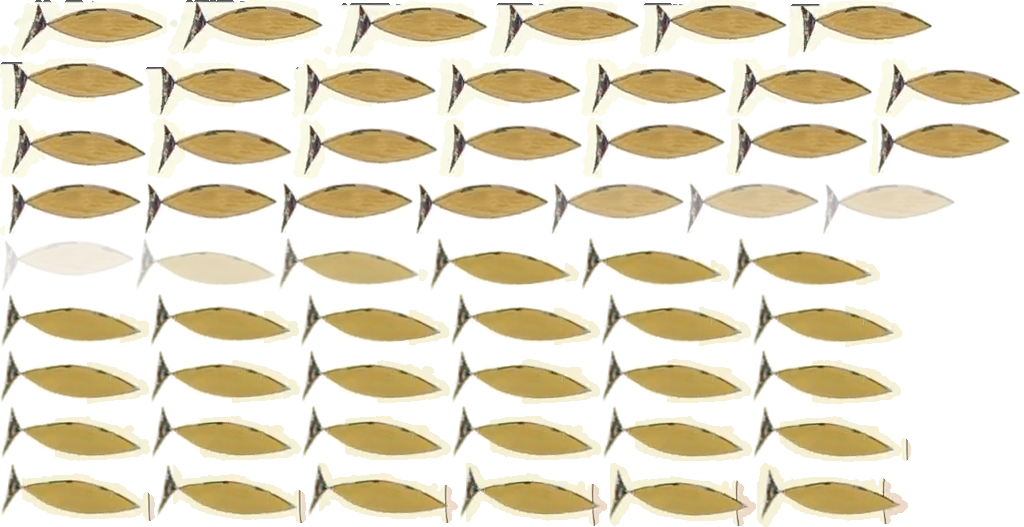
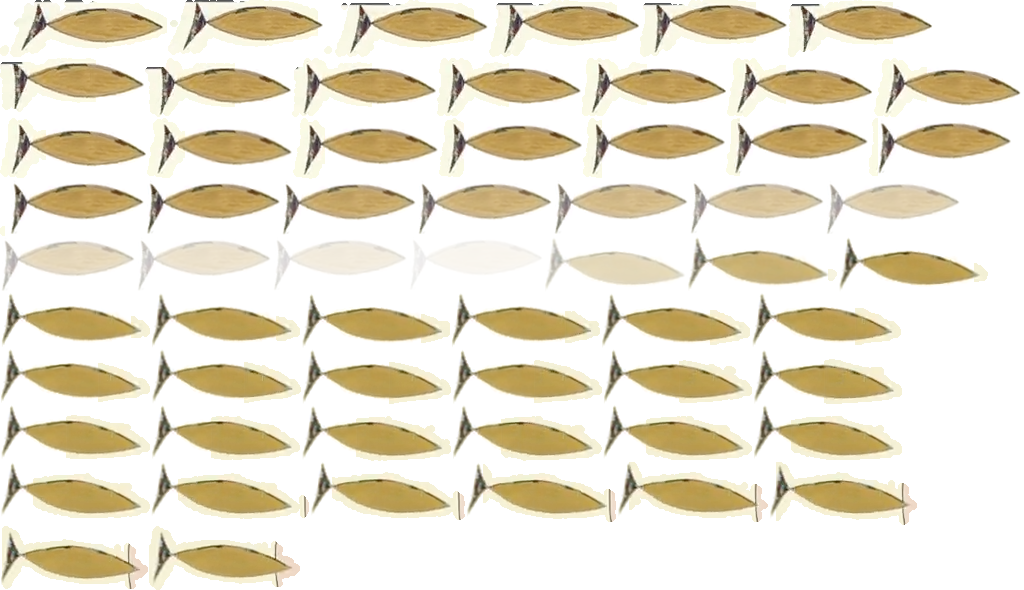
Заставка: 7 замечаний — тон ролика на iPhone, профиль низа на телефоне, море по горизонту, картина до краёв экрана, рыба без торможения, перетекание без вспышек
- iOS показывает ролик темнее CSS-цветов (y = x − 0,17·x·(1 − x), замер по скринам с iPhone): на iOS так же затемняются фон, фактура и лист рыбы
- телефон: под роликом фон продолжает низ кадра (site/hero-edges.json, ключевые кадры по 16 отрезкам ширины)
- «Только вперёд!» / «Держись» на телефоне: ролик увеличен, края картины на краях экрана (HERO_ZM)
- море: фон полосами по картине, граница синего по горизонту, текст ниже горизонта светлый; маска низа ролика убрана
- слои фона: новая сцена проявляется поверх старой за 0,6 с, без провала и вспышки на склейке 56,3
- рыба: за краем картины не тормозит, гаснет за 10 кадров
- телефон: под подпись сцены всегда место на две строки — текст не прыгает

diff --git a/index.html b/index.html
@@ -44,11 +44,12 @@ a:hover{color:var(--mars)}
 @property --hf{syntax:"<color>";inherits:true;initial-value:#F7F1E8}
 @property --hbc{syntax:"<color>";inherits:true;initial-value:#F7F1E8}
 .hero.sync{background:linear-gradient(var(--hf) 0,var(--hf) var(--hy,100%),var(--hbc) var(--hy,100%),var(--hbc) 100%);transition:--hf .9s ease,--hbc .9s ease}
-.hero h1,.hero .hs,.hero .hl a,.ha-cap,.ha-cap .cg{transition:color .9s ease,border-color .9s ease}
+.hero h1,.hero .hs,.hero .hl a,.ha-cap,.ha-cap .cg{transition:color .6s ease,border-color .6s ease}
 .hero-fx{position:absolute;inset:0;width:100%;height:100%;z-index:2;pointer-events:none}
-/* фактура холста вокруг ролика в сценах на акриловом фоне (heroSync, HERO_TX) */
-.hero-tx{position:absolute;inset:0;opacity:0;transition:opacity .9s ease;pointer-events:none;background-repeat:repeat}
-.hero-tx.on{opacity:1}
+/* фон вокруг ролика (heroSync): набор слоёв на сцену — основа, левый и правый край, низ; новая сцена проявляется поверх старой */
+.hero-bg{position:absolute;inset:0;opacity:0;pointer-events:none;transition:opacity .6s cubic-bezier(.3,.6,.4,1)}
+.hero-bg.on{opacity:1}
+.hero-bg>div{position:absolute;inset:0;background-repeat:no-repeat}
 .hero .hi{position:relative;z-index:1}
 .hi{max-width:var(--mw);margin:0 auto;width:100%;display:grid;grid-template-columns:1fr 1.25fr;gap:48px;align-items:center}
 .ht h1{font-family:var(--fd);font-weight:300;font-size:clamp(2.6rem,5vw,4rem);line-height:1.12;margin-bottom:20px}
@@ -74,7 +75,7 @@ a:hover{color:var(--mars)}
 
 .wd{width:100%;line-height:0;overflow:hidden}
 .wd.wh{background:var(--hbc,var(--canvas));transition:--hbc .9s ease;position:relative}
-.wd.wh svg{position:relative}
+.wd.wh svg{position:relative;z-index:2}
 .wd svg{width:100%;height:auto;display:block}
 
 /* SECTIONS */
@@ -297,6 +298,8 @@ a:hover{color:var(--mars)}
   /* Заставка на телефоне: квадрат от края до края сразу под шапкой, кадр обрезается по бокам — картина упирается в границы экрана */
   .hero{align-items:flex-start;padding-top:60px}
   .ha-vid{aspect-ratio:1/1}
+  /* подпись под роликом бывает в одну и в две строки — место под две держим всегда, иначе текст ниже прыгает на склейках */
+  .ha-cap{min-height:calc(3.4em + 10px);align-content:flex-start}
   .sec{padding:56px 16px}
   .cg,.cg-col{gap:14px}
   .cb2{padding:12px}
@@ -705,20 +708,25 @@ function shareWork(id){
 function openFromHash(){const m=location.hash.match(/^#work-(\d+)$/);if(m&&W.length)oM(+m[1]);}
 addEventListener('hashchange',openFromHash);
 
-/* Заставка: фон первого экрана берёт цвет краёв текущего кадра, под роликом — подпись сцены со ссылкой на работу */
-// Сцены ролика по точным склейкам: [начало, id работы для подписи, цвет фона вокруг, цвет под роликом, 1 — низ ролика уходит в воду,
-// фактура холста вокруг (HERO_TX)].
+/* Заставка: фон первого экрана продолжает края текущего кадра, под роликом — подпись сцены со ссылкой на работу */
+// Сцены ролика по точным склейкам: [начало, id работы для подписи, цвет фона вокруг, цвет под роликом, —, фактура холста вокруг (HERO_TX)].
 // Цвета сняты заранее с показанных кадров (края картины), поэтому фон переключается ровно на склейке
 // и не ловит мусор с наездов и переходов. Сменится ролик — пересчитать.
 const HERO_SC=[[0,25,'#f5f5e1','#f4f4e1'],[4.8,25,'#f5f5e9','#f5f5e9'],[7.37,65,'#f5f5e9','#f5f5e9'],[16.833,77,'#16a063','#16a063',0,'g'],
   [22.333,37,'#f2efe4','#f1eee4'],[30.333,25,'#f5f5e1','#f4f4e1'],[35.333,18,'#f8f7e3','#f8f6e3'],[37.35,18,'#faf8e4','#f8f8e3'],
-  [40.333,55,'#f7f5da','#f8f6da'],[46.3,25,'#f5f5e1','#f4f4e1'],[51.3,59,'#dbe9f7','#30638b',1],[56.3,52,'#032b5a','#022a5a',0,'b'],
+  [40.333,55,'#f7f5da','#f8f6da'],[46.3,25,'#f5f5e1','#f4f4e1'],[51.3,59,'#dbe9f7','#30638b'],[56.3,52,'#032b5a','#022a5a',0,'b'],
   [61.3,0,'#78a99a','#7aa99a'],[67.267,60,'#afbec7','#afbec7'],[72.267,24,'#e1a599','#e4a799'],[77.267,35,'#f3f3e7','#f1eedf']];
 // Где в кадре сама картина [с, по, u0, u1] (доля ширины кадра): за её краями стена со швом — скрываем
 const HERO_CLIP=[[0,4.8,.153,.846],[30.333,35.333,.153,.846],[46.3,51.3,.153,.846],[35.333,35.55,.276,.724],[37.35,40.333,.276,.724],[40.333,46.3,.28,.724],[67.85,71.85,0,.724]];
+// На телефоне ролик квадратный и показывает середину кадра. Здесь картина уже этой середины — ролик увеличиваем,
+// чтобы края картины пришлись на края экрана [с, по, u0, u1 картины]
+const HERO_ZM=[[4.8,16.833,.279,.721]];
 // Фактура холста: тайл 540×928 px кадра, бесшовный. В нём полоса края кадра (слева — колонки 0–179, справа — 668–847, строки 0–463)
 // и продолжение, сшитое лоскутами из этой же полосы, — у края ролика фактура идёт дальше без шва и без отражений. Сменится ролик — пересобрать.
 const HERO_TX={g:['site/images/hero-tex-gl.webp','site/images/hero-tex-gr.webp'],b:['site/images/hero-tex-bl.webp','site/images/hero-tex-br.webp']};
+// Море: фон страницы продолжает картину полосами по высоте кадра — слева небо, розовая стена, море; справа небо и море.
+// Граница синего идёт по линии горизонта на картине. [доля высоты кадра, цвет] для левого и правого края
+const HERO_BD={51.3:[[[0,'dcebf9'],[.1088,'f2c5c5'],[.5894,'30638b']],[[0,'dae9f4'],[.5959,'30638b']]]};
 // Фон у краёв картины (сцены с обрезкой): яркость фона картины по высоте кадра [u левого края, u правого, 30 цветов сверху вниз
 // слева, справа], снята с краёв внутри картины (где у края рисунок — по соседним строкам фона). Выше и ниже ролика — цвет сцены.
[1 lines of base64/hex data omitted]
@@ -726,85 +734,148 @@ const HERO_PF={0:[0.153,0.846,'fafceafafceafafceafafceafafceafafceafafceafafceaf
[3 lines of base64/hex data omitted]
+// Под роликом на телефоне фон продолжает низ кадра: цвет нижней строки по 16 отрезкам ширины (рисунок исключён) в ключевых
+// кадрах, между ними — плавно. Таблица — site/hero-edges.json, «z…» — для увеличенного ролика (HERO_ZM).
 // Рыба на переходе через край картины — покадровые ячейки (кадр ролика = номер ячейки, 30 fps): внутри картины — пиксели этого же кадра
 // (рыба из ролика и чистый фон вокруг её соседних положений, чтобы отставание слоя на кадр не давало «призраков»),
-// за краем — та же рыба, достроенная по форме и точному положению в кадре. Ячейка: [x, y, w, h в листе, x, y в кадре 848×464].
-const FISH={src:'site/images/hero-fish-cells.webp',c:{"1186":[[0,0,167,57,447,170]],"1187":[[168,0,155,55,464,170]],"1188":[[324,0,164,57,464,167]],"1189":[[489,0,150,57,486,167]],"1190":[[640,0,147,57,498,167]],"1191":[[788,0,145,57,509,166]],"1192":[[0,58,144,54,518,166]],"1193":[[145,58,146,59,524,161]],"1194":[[292,58,144,59,534,161]],"1195":[[437,58,144,58,542,161]],"1196":[[582,58,144,58,549,161]],"1197":[[727,58,146,59,555,161]],"1198":[[874,58,147,59,561,161]],"1199":[[0,118,146,60,568,161]],"1200":[[147,118,145,60,576,162]],"1201":[[293,118,145,61,582,162]],"1202":[[439,118,143,59,589,164]],"1203":[[583,118,142,60,595,164]],"1204":[[726,118,142,58,600,166]],"1205":[[869,118,141,58,605,166]],"1206":[[0,180,142,56,609,167]],"1207":[[143,180,135,55,620,167]],"1208":[[279,180,134,55,624,167]],"1209":[[414,180,135,55,627,166]],"1210":[[550,180,134,55,631,166],[135,237,142,55,92,167]],"1211":[[685,180,135,55,634,166],[278,237,150,54,97,167]],"1212":[[821,180,135,55,637,165],[429,237,150,55,102,166]],"1213":[[0,237,134,54,640,165],[580,237,150,54,107,166]],"1214":[[731,237,149,55,113,165]],"1215":[[0,293,149,55,118,164]],"1216":[[150,293,149,55,124,164]],"1217":[[300,293,149,55,129,162]],"1218":[[450,293,150,54,134,162]],"1219":[[601,293,150,54,140,161]],"1220":[[752,293,150,55,145,160]],"1221":[[0,349,149,55,151,159]],"1222":[[150,349,150,55,156,159]],"1223":[[301,349,149,55,162,158]],"1224":[[451,349,149,55,167,157]],"1225":[[601,349,150,55,172,157]],"1226":[[752,349,149,55,178,156]],"1227":[[0,405,150,56,183,155]],"1228":[[151,405,150,56,189,155]],"1229":[[302,405,149,55,195,155]],"1230":[[452,405,149,55,200,155]],"1231":[[602,405,150,56,205,154]],"1232":[[753,405,158,57,211,154]],"1233":[[0,463,155,58,216,155]],"1234":[[156,463,150,60,221,155]],"1235":[[307,463,151,60,226,157]],"1236":[[459,463,148,63,231,157]],"1237":[[608,463,148,63,236,157]],"1238":[[757,463,151,64,238,159]]}};
+// за краем — та же рыба, достроенная по форме и точному положению в кадре; выплыв за край не тормозит и гаснет за 10 кадров.
+// Ячейка: [x, y, w, h в листе, x, y в кадре 848×464].
+const FISH={src:'site/images/hero-fish-cells.webp',c:{"1186":[[0,0,167,57,447,170]],"1187":[[168,0,155,55,464,170]],"1188":[[324,0,164,57,464,167]],"1189":[[489,0,150,57,486,167]],"1190":[[640,0,147,57,498,167]],"1191":[[788,0,145,57,509,166]],"1192":[[0,58,144,54,518,166]],"1193":[[145,58,146,59,524,161]],"1194":[[292,58,144,59,534,161]],"1195":[[437,58,144,58,542,161]],"1196":[[582,58,144,58,549,161]],"1197":[[727,58,146,59,555,161]],"1198":[[874,58,147,59,561,161]],"1199":[[0,118,146,60,568,161]],"1200":[[147,118,145,60,576,162]],"1201":[[293,118,145,61,582,162]],"1202":[[439,118,143,59,589,164]],"1203":[[583,118,142,60,595,164]],"1204":[[726,118,142,58,600,166]],"1205":[[869,118,142,58,605,166]],"1206":[[0,180,144,56,609,167]],"1207":[[145,180,135,55,624,167]],"1208":[[281,180,135,56,631,166]],"1209":[[417,180,135,55,638,166]],"1210":[[553,180,135,55,645,166],[544,237,142,55,92,167]],"1211":[[689,180,135,55,652,166],[687,237,150,54,97,167]],"1212":[[825,180,135,55,659,165],[838,237,150,55,102,166]],"1213":[[0,237,135,55,666,165],[0,293,150,54,107,166]],"1214":[[136,237,135,54,673,165],[151,293,149,55,113,165]],"1215":[[272,237,135,54,680,165],[301,293,149,55,118,164]],"1216":[[408,237,135,53,687,165],[451,293,149,55,124,164]],"1217":[[601,293,149,55,129,162]],"1218":[[751,293,150,54,134,162]],"1219":[[0,349,150,54,140,161]],"1220":[[151,349,150,55,145,160]],"1221":[[302,349,149,55,151,159]],"1222":[[452,349,150,55,156,159]],"1223":[[603,349,149,55,162,158]],"1224":[[753,349,149,55,167,157]],"1225":[[0,405,150,55,172,157]],"1226":[[151,405,149,55,178,156]],"1227":[[301,405,150,56,183,155]],"1228":[[452,405,150,56,189,155]],"1229":[[603,405,149,55,195,155]],"1230":[[753,405,149,55,200,155]],"1231":[[0,462,150,56,205,154]],"1232":[[151,462,158,57,211,154]],"1233":[[310,462,155,58,216,155]],"1234":[[466,462,150,60,221,155]],"1235":[[617,462,151,60,226,157]],"1236":[[769,462,148,63,231,157]],"1237":[[0,526,148,63,236,157]],"1238":[[149,526,151,64,238,159]]}};
 function heroSync(){
   const v=document.getElementById('heroVid'),hero=document.getElementById('hero'),cap=document.getElementById('heroCap');
   if(!v)return;
   if(matchMedia('(prefers-reduced-motion: reduce)').matches){v.removeAttribute('autoplay');v.pause();return;}
   const VW=848,VH=464,fx=document.createElement('canvas');fx.className='hero-fx';hero.append(fx);const fc=fx.getContext('2d');
-  // два попеременных набора слоёв (левый край, правый край, основа) на экране и на волне: новый фон проявляется поверх старого
-  const wd=document.querySelector('.wd.wh'),txl=[hero,wd].filter(Boolean).map(el=>({el,s:[0,1].map(()=>['l','r','b'].map(()=>{const d=document.createElement('div');d.className='hero-tx';el.prepend(d);return d;}))}));
-  let bgOn='',ai=0;
+  // iOS показывает ролик темнее тех же цветов в CSS (замер по скринам с iPhone: y = x − 0,17·x·(1 − x)) — там так же
+  // затемняем фон, фактуру и рыбу, иначе на краю ролика ступенька тона
+  const IOS=/iP(hone|od|ad)/.test(navigator.platform)||(navigator.platform==='MacIntel'&&navigator.maxTouchPoints>1),
+    LUT=Array.from({length:256},(_,c)=>IOS?Math.round(c-.17*c*(255-c)/255):c),
+    col=h=>{h=h.replace('#','');return 'rgb('+[0,2,4].map(i=>LUT[parseInt(h.substr(i,2),16)]).join(',')+')';},
+    tone=src=>new Promise(res=>{const im=new Image();im.onload=()=>{const c=document.createElement('canvas'),x=c.getContext('2d');
+      c.width=im.naturalWidth;c.height=im.naturalHeight;x.drawImage(im,0,0);const d=x.getImageData(0,0,c.width,c.height),p=d.data;
+      for(let i=0;i<p.length;i+=4){p[i]=LUT[p[i]];p[i+1]=LUT[p[i+1]];p[i+2]=LUT[p[i+2]];}x.putImageData(d,0,0);res(c);};im.src=src;}),
+    toned={};
+  // слои фона: два попеременных набора на экране и на волне под ним; новая сцена проявляется поверх старой, старая гаснет под ней
+  const wd=document.querySelector('.wd.wh'),G=[hero,wd].filter(Boolean).map(el=>({el,s:[0,1].map(()=>{const b=document.createElement('div'),l={};
+    b.className='hero-bg';for(const k of ['base','R','L','B'])b.append(l[k]=document.createElement('div'));el.prepend(b);return {b,l};})}));
   const li=x=>{x=parseInt(x,16)/255;return x<=.04045?x/12.92:((x+.055)/1.055)**2.4;};
   const lum=h=>.2126*li(h.slice(1,3))+.7152*li(h.slice(3,5))+.0722*li(h.slice(5,7));
-  let key='',capKey='';
-  // кадр на экране: X(u) — px героя для доли ширины кадра (с учётом object-fit:cover)
+  let key='',capKey='',bgKey=null,ai=-1,tmo=0,zoom=1,bpKey='',BP={};
+  fetch('site/hero-edges.json').then(r=>r.json()).then(j=>{for(const k in j)BP[k]=j[k].map(([n,h])=>[n,h.match(/../g).map(x=>parseInt(x,16))]);key='';}).catch(()=>{});
+  // кадр на экране: X(u), Y(v) — px героя для доли кадра (object-fit:cover и увеличение ролика), b — низ видимой части ролика
   function box(){
-    const hb=hero.getBoundingClientRect(),vb=v.getBoundingClientRect(),sc=Math.max(vb.width/VW,vb.height/VH),cu=(vb.width/sc)/VW,cv=(vb.height/sc)/VH,cu0=(1-cu)/2,cv0=(1-cv)/2;
-    return {hb,vb,sc,cu0,cu1:(1+cu)/2,X:u=>vb.left-hb.left+(u-cu0)/cu*vb.width,Y:vv=>vb.top-hb.top+(vv-cv0)/cv*vb.height,stack:vb.width>hb.width*.95};
+    const hb=hero.getBoundingClientRect(),r=v.getBoundingClientRect(),sc=Math.max(r.width/VW,r.height/VH),cu=(r.width/sc)/VW,cv=(r.height/sc)/VH,
+      cu0=(1-cu)/2,cv0=(1-cv)/2;
+    return {hb,sc,cu0,cu1:(1+cu)/2,X:u=>r.left-hb.left+(u-cu0)/cu*r.width,Y:vv=>r.top-hb.top+(vv-cv0)/cv*r.height,
+      b:r.top-hb.top+(r.height+r.height/zoom)/2,stack:r.width/zoom>hb.width*.95};
   }
-  function apply(t,f){
+  function apply(t){
     let sc=HERO_SC[0];for(const r of HERO_SC)if(t>=r[0])sc=r;
-    const c=HERO_CLIP.find(r=>t>=r[0]&&t<r[1]),cl=c?Math.max(0,(c[2]-f.cu0)/(f.cu1-f.cu0)):0,cr=c?Math.max(0,(f.cu1-c[3])/(f.cu1-f.cu0)):0;
-    const y1=Math.round(f.vb.bottom-f.hb.top),k=sc[0]+'|'+cl.toFixed(4)+cr.toFixed(4)+'|'+y1;
+    let f=box();
+    const zr=HERO_ZM.find(r=>t>=r[0]&&t<r[1]),zw=zr&&f.stack?(f.cu1-f.cu0)/(zr[3]-zr[2]):1,z=zw>1&&zw<1.35?zw:1;
+    if(z!==zoom){zoom=z;v.style.transform=`scale(${z})`;f=box();}
+    // обрезка — в долях самого ролика: края картины (HERO_CLIP) и лишнее от увеличения; задана всегда, меняются только числа
+    const c=HERO_CLIP.find(r=>t>=r[0]&&t<r[1]),cu=f.cu1-f.cu0,zi=(1-1/z)/2,
+      cl=Math.max(zi,c?(c[2]-f.cu0)/cu:0),cr=Math.max(zi,c?(f.cu1-c[3])/cu:0),
+      k=sc[0]+'|'+cl.toFixed(4)+cr.toFixed(4)+'|'+Math.round(f.b)+'|'+Math.round(f.hb.width)+'|'+Object.keys(BP).length;
     if(k!==key){key=k;
-      v.style.clipPath=cl||cr?`inset(0 ${(cr*100).toFixed(2)}% 0 ${(cl*100).toFixed(2)}%)`:'';
-      // вокруг — цвет краёв картины, под роликом во всю ширину — цвет её нижнего края (вода, пол)
-      const fb=sc[4]?16:0,st=document.documentElement.style;
-      v.style.webkitMaskImage=v.style.maskImage=fb?`linear-gradient(#000 calc(100% - ${fb}px),transparent)`:'';
-      hero.classList.add('sync');st.setProperty('--hf',sc[2]);st.setProperty('--hbc',sc[3]);hero.style.setProperty('--hy',(y1-fb)+'px');
+      v.style.clipPath=`inset(${(zi*100).toFixed(2)}% ${(cr*100).toFixed(2)}% ${(zi*100).toFixed(2)}% ${(cl*100).toFixed(2)}%)`;
+      const st=document.documentElement.style;hero.classList.add('sync');st.setProperty('--hf',sc[2]);st.setProperty('--hbc',sc[3]);
       hero.classList.toggle('dk',lum(f.stack?sc[3]:sc[2])<.3);cap.classList.toggle('lt',lum(sc[3])<.3);
-      bgSet(sc,f);
+      bgSet(sc,f);txSplit(HERO_BD[sc[0]]&&!f.stack?f.Y(HERO_BD[sc[0]][0].at(-1)[0]):null,f);
     }
+    if(f.stack)bpSet(sc,t,f);
     const id=sc[1],a=id&&W.find(x=>x.id===id),ck=(a?id:0)+L;
     if(ck!==capKey){capKey=ck;cap.classList.add('off');
       setTimeout(()=>{if(!a)return;const ru=L==='ru';
         cap.innerHTML=`<span>${ru?a.t:(a.te||a.t)}${a.y?' · '+a.y:''}</span><span class="cg">${ru?'Смотреть работу →':'View work →'}</span>`;
         cap.href='#work-'+id;cap.classList.remove('off');},a?450:0);}
+    return f;
   }
-  // фон вокруг ролика: фактура (HERO_TX) или яркость краёв картины (HERO_PF); левый слой продолжает левый край, правый — правый,
-  // над и под роликом левый плавно уходит в правый
+  // море на десктопе: текст слева лежит и на светлом небе, и на тёмной воде — ниже горизонта он светлый (как в тёмных сценах),
+  // строка, которую пересекает горизонт, меняет цвет ровно на нём
+  function txSplit(y,f){
+    const TXS=[['h1','#F7F1E8'],['h1 .ac','--gold-s'],['.hs','rgba(247,241,232,.85)']].map(([q,c])=>[hero.querySelector(q),c]).filter(x=>x[0]);
+    for(const [el] of TXS)el.style.cssText='';
+    for(const a of hero.querySelectorAll('.hl a'))a.style.cssText='';
+    if(y==null)return;
+    for(const [el,c] of TXS){const r=el.getBoundingClientRect(),d=getComputedStyle(el).color,lt=c[0]==='-'?getComputedStyle(document.documentElement).getPropertyValue(c).trim():c,
+        yl=y-(r.top-f.hb.top);
+      el.style.cssText=`background:linear-gradient(${d} ${yl}px,${lt} ${yl}px);-webkit-background-clip:text;background-clip:text;color:transparent;transition:none`;}
+    for(const a of hero.querySelectorAll('.hl a')){const r=a.getBoundingClientRect();
+      if(r.top+r.height/2-f.hb.top>y)a.style.cssText='color:#F7F1E8;border-color:rgba(247,241,232,.35)';}
+  }
+  // новая сцена — в свободный набор слоёв, он проявляется поверх; старый прячем, когда новый закрыл его целиком
   function bgSet(sc,f){
-    const pf=HERO_PF[sc[0]],id=sc[5]||(pf?'p'+sc[0]:'');
-    if(id!==bgOn){if(id)ai^=1;bgOn=id;for(const g of txl)g.s.forEach((p,i)=>p.forEach(d=>d.classList.toggle('on',!!id&&i===ai)));}
-    if(!id)return;
-    const k=f.sc;
-    for(const g of txl){const r=g.el.getBoundingClientRect(),ox=r.left-f.hb.left,oy=r.top-f.hb.top,[L,R,B]=g.s[ai];
-      if(sc[5]){
-        [L,R].forEach((d,i)=>{d.style.backgroundImage=`url(${HERO_TX[sc[5]][i]})`;d.style.backgroundSize=`${540*k}px ${928*k}px`;});
-        L.style.backgroundPosition=`${f.X(0)-360*k-ox}px ${f.Y(0)-oy}px`;R.style.backgroundPosition=`${f.X(668/VW)-ox}px ${f.Y(0)-oy}px`;
-        L.style.webkitMaskImage=L.style.maskImage=`linear-gradient(to right,#000 ${f.X(.25)-ox}px,transparent ${f.X(.75)-ox}px)`;
-        R.style.webkitMaskImage=R.style.maskImage='';B.style.backgroundImage='none';
-      }else{
+    const nw=sc[0]!==bgKey;bgKey=sc[0];
+    if(nw)ai=ai<0?0:ai^1;
+    fill(ai,sc,f);
+    if(!nw)return;
+    clearTimeout(tmo);
+    const first=!G[0].s[ai^1].b.classList.contains('on');
+    for(const g of G){const n=g.s[ai].b,o=g.s[ai^1].b;n.style.zIndex=1;o.style.zIndex=0;
+      if(first)n.style.transition='none';n.classList.add('on');if(first){void n.offsetWidth;n.style.transition='';}}
+    const old=ai^1;tmo=setTimeout(()=>{for(const g of G){const o=g.s[old].b;o.style.transition='none';o.classList.remove('on');void o.offsetWidth;o.style.transition='';}},first?0:700);
+  }
+  // фон вокруг ролика: основа — цвет сцены над и под роликом; фактура (HERO_TX), полосы (HERO_BD) или яркость краёв картины (HERO_PF);
+  // на телефоне под роликом — профиль низа кадра (bpSet)
+  function fill(i,sc,f){
+    const pf=HERO_PF[sc[0]],bd=HERO_BD[sc[0]],tx=sc[5]&&HERO_TX[sc[5]],k=f.sc;
+    for(const g of G){const r=g.el.getBoundingClientRect(),ox=r.left-f.hb.left,oy=r.top-f.hb.top,{base,L,R,B}=g.s[i].l,
+        X=u=>f.X(u)-ox,Y=vv=>f.Y(vv)-oy,yb=f.b-oy;
+      for(const d of [L,R,B])d.style.cssText='';
+      base.style.background=`linear-gradient(${col(sc[2])} ${yb}px,${col(sc[3])} ${yb}px)`;
+      if(tx){
+        [L,R].forEach((d,j)=>{d.style.backgroundImage=`url(${toned[tx[j]]||tx[j]})`;d.style.backgroundSize=`${540*k}px ${928*k}px`;d.style.backgroundRepeat='repeat';});
+        L.style.backgroundPosition=`${X(0)-360*k}px ${Y(0)}px`;R.style.backgroundPosition=`${X(668/VW)}px ${Y(0)}px`;
+        L.style.webkitMaskImage=L.style.maskImage=`linear-gradient(to right,#000 ${X(.25)}px,transparent ${X(.75)}px)`;
+      }else if(bd){
+        // полосы с чёткими границами; над роликом — верхний цвет, под ним — нижний; левый край над и под роликом плавно уходит в правый
+        const gb=s=>'linear-gradient('+s.map(([,c],j)=>(j?`${col(c)} ${Y(s[j][0])}px`:'')+(j<s.length-1?`${j?',':''}${col(c)} ${Y(s[j+1][0])}px`:'')).join(',')+')';
+        L.style.background=gb(bd[0]);R.style.background=gb(bd[1]);
+        L.style.webkitMaskImage=L.style.maskImage=`linear-gradient(to right,#000 ${X(.25)}px,transparent ${X(.75)}px)`;
+      }else if(pf){
         // у края — яркость картины по высоте; дальше от края и выше/ниже ролика — средняя яркость этого края,
         // а основа под всем плавно идёт от средней яркости левого края к правому (без ореола вокруг ролика)
-        const y0=f.Y(0)-oy,y1=f.Y(1)-oy,rm=(y1-y0)*.15,cs=h=>h.match(/.{6}/g),
-          avg=h=>'rgb('+[0,2,4].map(i=>Math.round(cs(h).reduce((t,c)=>t+parseInt(c.slice(i,i+2),16),0)/cs(h).length))+')',
-          gr=(h,m)=>`linear-gradient(${m} ${y0-rm}px,`+cs(h).map((c,i,a)=>`#${c} ${y0+(y1-y0)*i/(a.length-1)}px`).join(',')+`,${m} ${y1+rm}px)`,
-          Lm=avg(pf[2]),Rm=avg(pf[3]),a=f.X(pf[0])-ox,b=f.X(pf[1])-ox,D=f.X(.2)-f.X(0);
-        L.style.backgroundImage=gr(pf[2],Lm);R.style.backgroundImage=gr(pf[3],Rm);B.style.backgroundImage=`linear-gradient(to right,${Lm} ${a}px,${Rm} ${b}px)`;
-        for(const d of [L,R,B]){d.style.backgroundSize='100% 100%';d.style.backgroundPosition='0 0';}
+        const y0=Y(0),y1=Y(1),rm=(y1-y0)*.15,cs=h=>h.match(/.{6}/g),
+          avg=h=>col([0,2,4].map(j=>Math.round(cs(h).reduce((t,c)=>t+parseInt(c.substr(j,2),16),0)/cs(h).length).toString(16).padStart(2,'0')).join('')),
+          gr=(h,m)=>`linear-gradient(${m} ${y0-rm}px,`+cs(h).map((c,j,a)=>`${col(c)} ${y0+(y1-y0)*j/(a.length-1)}px`).join(',')+`,${m} ${y1+rm}px)`,
+          Lm=avg(pf[2]),Rm=avg(pf[3]),a=X(pf[0]),b=X(pf[1]),D=f.X(.2)-f.X(0);
+        L.style.backgroundImage=gr(pf[2],Lm);R.style.backgroundImage=gr(pf[3],Rm);base.style.background=`linear-gradient(to right,${Lm} ${a}px,${Rm} ${b}px)`;
         L.style.webkitMaskImage=L.style.maskImage=`linear-gradient(to right,transparent ${a-D}px,#000 ${a}px,transparent ${a+D}px)`;
         R.style.webkitMaskImage=R.style.maskImage=`linear-gradient(to right,transparent ${b-D}px,#000 ${b}px,transparent ${b+D}px)`;
-      }}
+      }
+      if(f.stack&&!tx)B.style.top=yb+'px';else B.style.display='none';
+    }
+    bpKey='';
   }
-  let sheet=null,drawn=false;
+  // профиль низа кадра под роликом (телефон): ключевые кадры из hero-edges.json, между ними — линейно
+  function bpSet(sc,t,f){
+    const a=(zoom>1&&BP['z'+sc[0]])||BP[sc[0]];
+    if(!a||sc[5])return;
+    const n=t*30;let j=0;while(j<a.length-2&&a[j+1][0]<=n)j++;
+    const [n0,p0]=a[j],[n1,p1]=a[Math.min(j+1,a.length-1)],w=n1>n0?Math.min(1,Math.max(0,(n-n0)/(n1-n0))):0,cs=[];
+    for(let q=0;q<48;q+=3)cs.push('rgb('+[0,1,2].map(e=>LUT[Math.round(p0[q+e]+(p1[q+e]-p0[q+e])*w)]).join(',')+')');
+    const s=cs.join(',');if(s===bpKey)return;bpKey=s;
+    for(const g of G){const ox=g.el.getBoundingClientRect().left-f.hb.left;
+      g.s[ai].l.B.style.backgroundImage='linear-gradient(to right,'+cs.map((c,q)=>`${c} ${f.X((q+.5)/16)-ox}px`).join(',')+')';}
+  }
+  let sheet=null,sheetT=null,drawn=false;
   function drawFish(t,f){
     const n=Math.floor(t*30+.01),cs=FISH.c[n];
-    if(!sheet&&t>8){sheet=new Image();sheet.src=FISH.src;for(const u of Object.values(HERO_TX).flat())new Image().src=u;}
-    if(!cs||!sheet||!sheet.complete||!sheet.naturalWidth){if(drawn){fc.clearRect(0,0,fx.width,fx.height);drawn=false;}return;}
+    if(!sheet&&t>8){sheet=new Image();sheet.src=FISH.src;
+      for(const u of Object.values(HERO_TX).flat()){new Image().src=u;if(IOS)tone(u).then(c=>c.toBlob(b=>{toned[u]=URL.createObjectURL(b);key='';}));}
+      if(IOS)tone(FISH.src).then(c=>sheetT=c);}
+    if(!cs||!sheet||!sheet.complete||!sheet.naturalWidth||(IOS&&!sheetT)){if(drawn){fc.clearRect(0,0,fx.width,fx.height);drawn=false;}return;}
     // холст в пикселях экрана, а не CSS: иначе на ретине рыба мягче, чем в ролике
     const dpr=devicePixelRatio||1,W2=Math.round(f.hb.width*dpr),H2=Math.round(f.hb.height*dpr);
     if(fx.width!==W2||fx.height!==H2){fx.width=W2;fx.height=H2;}else fc.clearRect(0,0,W2,H2);
     fc.setTransform(W2/f.hb.width,0,0,H2/f.hb.height,0,0);
-    const k=f.sc,X0=f.X(0),Y0=f.Y(0);
-    for(const [sx,sy,w,h,x,y] of cs)fc.drawImage(sheet,sx,sy,w,h,X0+x*k,Y0+y*k,w*k,h*k);
+    const k=f.sc,X0=f.X(0),Y0=f.Y(0),src=sheetT||sheet;
+    for(const [sx,sy,w,h,x,y] of cs)fc.drawImage(src,sx,sy,w,h,X0+x*k,Y0+y*k,w*k,h*k);
     fc.setTransform(1,0,0,1,0,0);drawn=true;
   }
-  const step=t=>{if(document.hidden)return;const f=box();apply(t,f);drawFish(t,f);};
+  const step=t=>{if(document.hidden)return;drawFish(t,apply(t));};
   // обновляемся по показанному кадру видео, а не по таймеру — обрезка и фон меняются ровно на склейке
   if(v.requestVideoFrameCallback){const cb=(n,m)=>{step(m.mediaTime);v.requestVideoFrameCallback(cb);};v.requestVideoFrameCallback(cb);}
   else{const raf=()=>{step(v.currentTime);requestAnimationFrame(raf);};requestAnimationFrame(raf);}

diff --git a/CLAUDE.md b/CLAUDE.md
@@ -42,15 +42,26 @@
   покадровые ячейки в `site/images/hero-fish-cells.webp`, номер ячейки = номер кадра (30 fps), рисуются в `.hero-fx`
   (холст в пикселях экрана). Внутри картины ячейка — пиксели того же кадра (рыба ролика и чистый фон вокруг её соседних
   положений, чтобы отставание холста на кадр не давало «призраков»), за краем — та же рыба, достроенная по форме и
-  положению, подогнанным к кадру с точностью до долей пикселя. Шов на корпусе внутри картины сглажен на 8 px.
+  положению, подогнанным к кадру с точностью до долей пикселя. Шов на корпусе внутри картины сглажен на 8 px. На выплыве
+  за краем рыба не тормозит (разгон до 7 px/кадр) и гаснет за 10 кадров.
   `HERO_TX` — фактура холста вокруг ролика в зелёной («Всё проходит») и синей («Лето») сценах:
   `site/images/hero-tex-{g,b}{l,r}.webp`, тайлы 540×928 px кадра, бесшовные. В тайл вшита полоса края кадра, продолжение
-  сшито лоскутами из той же полосы, без отражений: при отражении на диагональном плетении видна «ёлочка». Слоями
-  `.hero-tx` лежат на первом экране и на волне под ним.
+  сшито лоскутами из той же полосы, без отражений: при отражении на диагональном плетении видна «ёлочка».
   `HERO_PF` — фон у краёв картины в сценах с обрезкой (0, 30,3, 46,3, 37,35, 40,333 с): 30 цветов яркости фона картины
   по высоте у левого и правого края (где у края сам рисунок — по соседним строкам фона). У края фон страницы повторяет
-  их; дальше от края, выше и ниже ролика — средняя яркость края, основа идёт от левой к правой. Сцены сменяются через
-  два попеременных набора слоёв с плавным перетеканием.
+  их; дальше от края, выше и ниже ролика — средняя яркость края, основа идёт от левой к правой.
+  `HERO_BD` — море («Я с тобой!», 51,3 с): фон страницы продолжает картину полосами (слева небо, розовая стена, море;
+  справа небо и море), граница синего — по горизонту картины. Текст слева ниже горизонта светлый (`txSplit`).
+  `HERO_ZM` — на телефоне ролик квадратный и показывает середину кадра; в 4,8–16,833 с картина уже этой середины, ролик
+  увеличен (`transform`, лишнее срезано `clip-path`), чтобы её края пришлись на края экрана.
+  `site/hero-edges.json` — под роликом на телефоне фон продолжает низ кадра: цвет нижней строки по 16 отрезкам ширины
+  (рисунок исключён) в ключевых кадрах, между ними — линейно; `z…` — для увеличенного ролика.
+  Слои фона (`.hero-bg`: основа, левый и правый край, низ) — два попеременных набора на первом экране и на волне под ним:
+  новая сцена проявляется поверх старой за 0,6 с, старая прячется под ней (без провала в середине перетекания).
+  Обрезка `clip-path` у ролика задана всегда, меняются только числа; маски у ролика нет. На телефоне под подпись сцены
+  всегда держим место на две строки, чтобы текст ниже не прыгал на склейках.
+  **iOS показывает ролик темнее** тех же цветов в CSS: y = x − 0,17·x·(1 − x) (замер по скринам с iPhone). На iOS
+  так же затемняются все цвета фона, тайлы фактуры и лист рыбы (`LUT`, `tone`), иначе на краях ролика ступенька.
   В `hero.mp4` убран битый чёрный кадр 67,267 с и стоят ключевые кадры на склейках.
   Сменится ролик — перепроверить таблицы, пересобрать ячейки рыбы и тайлы фактуры.
 
